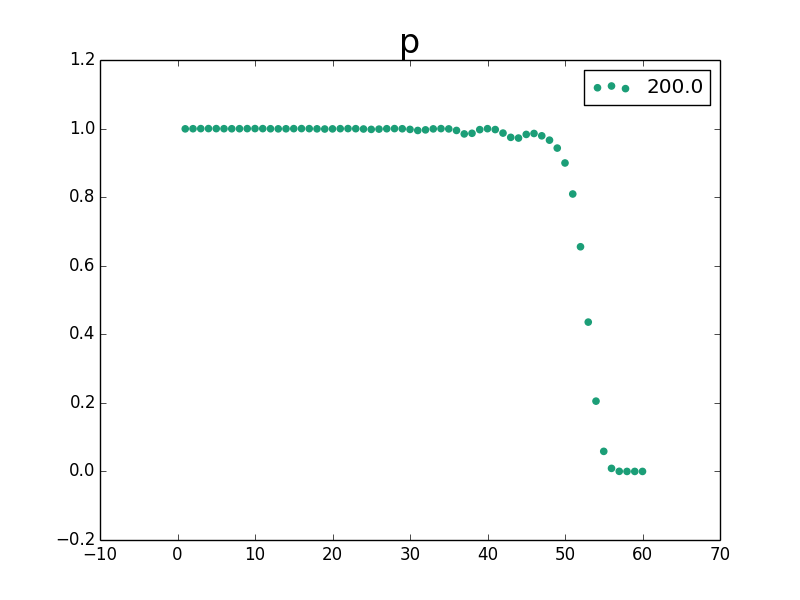
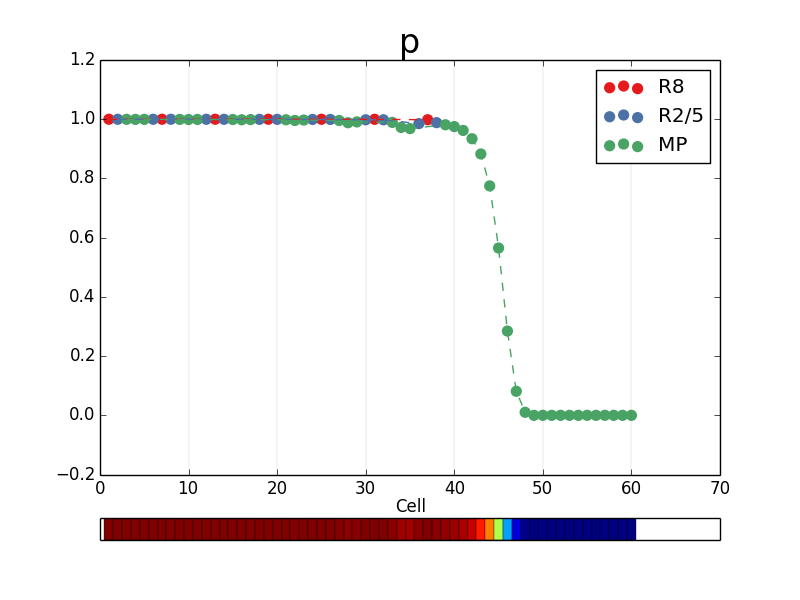
nice plots

diff --git a/yan_spi_indirect_lubensky-1d.py b/yan_spi_indirect_lubensky-1d.py
@@ -90,6 +90,9 @@ im_id = sim.add_internal_model(IM)
 # set all cells to have the same internal model
 sim.set_internal_model(range(NCells),im_id)
 
+# set boundary conditions
+sim.set_boundary_conditions([0],'ref_on')
+
 # cells adjacent to one another are connected
 # for diffusion we include main diagonal
 # equivalent to 3 wide diagonal
@@ -117,7 +120,7 @@ sim.add_interaction('a','notch','hill_activ',hill_connections,params=[1.5,0.5,2]
 low_dict = {'a':0.0,'s':0.0,'h':0.0,'u':0.0,'y':0.0,'p':0.0,'sp':0.0}
 high_dict = {'a':1.0+F,'s':1.0,'h':0.0,'u':0.0,'y':0.0,'p':0.0,'sp':0.0}
 sim.set_initial_conditions(range(0,NCells),low_dict)
-sim.set_initial_conditions([3],high_dict)
+sim.set_initial_conditions([0],high_dict)
 
 print 'starting simulation'
 t = np.linspace(0,200,100)
@@ -127,6 +130,7 @@ print 'simulation done'
 
 import matplotlib.pyplot as plt
 import matplotlib.cm as cm
+import matplotlib.gridspec as gridspec
 
 x_coord = np.linspace(1,NCells,NCells)
 
@@ -164,3 +168,58 @@ def plot_cell(cid,times):
     plt.plot(t[tstart:tend],cdata[cid][tstart:tend,:])
     plt.legend(IM.get_node_names())
     plt.show()
+
+
+# differentiate cell types
+def get_r8s(time):
+    tindex = np.abs(t-time).argmin()
+    return [i for i in xrange(NCells) if cdata[i][tindex,IM.get_node_id('u')] > 0.010]
+
+def get_r25s(time):
+    r25_indices = [ [r8-1,r8+1] for r8 in get_r8s(time)]
+    # not the most readable just flattens the list
+    return [c for pair in r25_indices for c in pair if c >= 0 and c < NCells]
+
+def get_progenitors(time):
+    r8s = get_r8s(time)
+    r25s = get_r25s(time)
+    return [c for c in xrange(NCells) if not c in r8s and not c in r25s]
+
+
+## plot based on these categorizations
+
+def plot_cell_species(species_name,time):
+    tindex = np.abs(t-time).argmin()
+    astatus = np.zeros((NCells,1))
+    for i in xrange(NCells):
+        astatus[i] = cdata[i][tindex,IM.get_node_id(species_name)]
+    r8s = get_r8s(time)
+    r25s = get_r25s(time)
+    progenitors = get_progenitors(time)
+    cell_types = [r8s,r25s,progenitors]
+    # plot along x axis
+    plt.figure()
+    gs = gridspec.GridSpec(2,1,height_ratios=[19,1])
+    # first plot values 
+    ax1 = plt.subplot(gs[0])
+    ax1.xaxis.grid(True,linewidth=0.1,linestyle='-',color='0.4');
+    colors = cm.Set1(np.linspace(0, 1, 10))
+    for j in xrange(len(cell_types)):
+        plt.scatter(x_coord[cell_types[j]],astatus[cell_types[j]],color=colors[j],s=50)
+    plt.legend(['R8','R2/5','MP'],loc='best')
+    for j in xrange(len(cell_types)):
+        plt.plot(x_coord[cell_types[j]],astatus[cell_types[j]],'--',color=colors[j])
+    plt.title(species_name,fontsize=24)
+    plt.xlabel('Cell',labelpad=0)
+    # now plot stripes
+    ax2 = plt.subplot(gs[1],sharex=ax1)
+    xcorners = np.tile(np.linspace(0,NCells,NCells+1)+0.5,(2,1))
+    ycorners = np.tile(np.array([[0],[1]]),(1,NCells+1))
+    plt.pcolor(xcorners,ycorners,astatus.T,edgecolors='k')
+    ax2.xaxis.set_visible(False)
+    ax2.yaxis.set_visible(False)
+    plt.show()
+
+def plot_all_cell_species(time):
+    for n in IM.node_names.keys():
+        plot_cell_species(n,time)

diff --git a/lubensky-1d.py b/lubensky-1d.py
@@ -57,6 +57,9 @@ im_id = sim.add_internal_model(IM)
 # set all cells to have the same internal model
 sim.set_internal_model(range(NCells),im_id)
 
+# set boundary condition
+sim.set_boundary_conditions([0],'ref_on')
+
 # cells adjacent to one another are connected
 # equivalent to 3 wide diagonal
 connections = (np.eye(NCells,k=-1) + np.eye(NCells,k=0) + np.eye(NCells,k=1)) > 0
@@ -72,13 +75,14 @@ sim.set_initial_conditions(range(1,NCells),low_dict)
 sim.set_initial_conditions([0],high_dict)
 
 print 'starting simulation'
-t = np.linspace(0,150,200)
+t = np.linspace(0,300,200)
 cdata = sim.simulate(t)
 print 'simulation done'
 
 
 import matplotlib.pyplot as plt
 import matplotlib.cm as cm
+import matplotlib.gridspec as gridspec
 
 x_coord = np.linspace(1,NCells,NCells)
 
@@ -116,3 +120,57 @@ def plot_cell(cid,times):
     plt.plot(t[tstart:tend],cdata[cid][tstart:tend,:])
     plt.legend(IM.get_node_names())
     plt.show()
+
+# differentiate cell types
+def get_r8s(time):
+    tindex = np.abs(t-time).argmin()
+    return [i for i in xrange(NCells) if cdata[i][tindex,IM.get_node_id('u')] > 0.010]
+
+def get_r25s(time):
+    r25_indices = [ [r8-1,r8+1] for r8 in get_r8s(time)]
+    # not the most readable just flattens the list
+    return [c for pair in r25_indices for c in pair if c >= 0 and c < NCells]
+
+def get_progenitors(time):
+    r8s = get_r8s(time)
+    r25s = get_r25s(time)
+    return [c for c in xrange(NCells) if not c in r8s and not c in r25s]
+
+
+## plot based on these categorizations
+
+def plot_cell_species(species_name,time):
+    tindex = np.abs(t-time).argmin()
+    astatus = np.zeros((NCells,1))
+    for i in xrange(NCells):
+        astatus[i] = cdata[i][tindex,IM.get_node_id(species_name)]
+    r8s = get_r8s(time)
+    r25s = get_r25s(time)
+    progenitors = get_progenitors(time)
+    cell_types = [r8s,r25s,progenitors]
+    # plot along x axis
+    plt.figure()
+    gs = gridspec.GridSpec(2,1,height_ratios=[19,1])
+    # first plot values 
+    ax1 = plt.subplot(gs[0])
+    ax1.xaxis.grid(True,linewidth=0.1,linestyle='-',color='0.4');
+    colors = cm.Set1(np.linspace(0, 1, 10))
+    for j in xrange(len(cell_types)):
+        plt.scatter(x_coord[cell_types[j]],astatus[cell_types[j]],color=colors[j],s=50)
+    plt.legend(['R8','R2/5','MP'],loc='best')
+    for j in xrange(len(cell_types)):
+        plt.plot(x_coord[cell_types[j]],astatus[cell_types[j]],'--',color=colors[j])
+    plt.title(species_name,fontsize=24)
+    plt.xlabel('Cell',labelpad=0)
+    # now plot stripes
+    ax2 = plt.subplot(gs[1],sharex=ax1)
+    xcorners = np.tile(np.linspace(0,NCells,NCells+1)+0.5,(2,1))
+    ycorners = np.tile(np.array([[0],[1]]),(1,NCells+1))
+    plt.pcolor(xcorners,ycorners,astatus.T,edgecolors='k')
+    ax2.xaxis.set_visible(False)
+    ax2.yaxis.set_visible(False)
+    plt.show()
+
+def plot_all_cell_species(time):
+    for n in IM.node_names.keys():
+        plot_cell_species(n,time)
